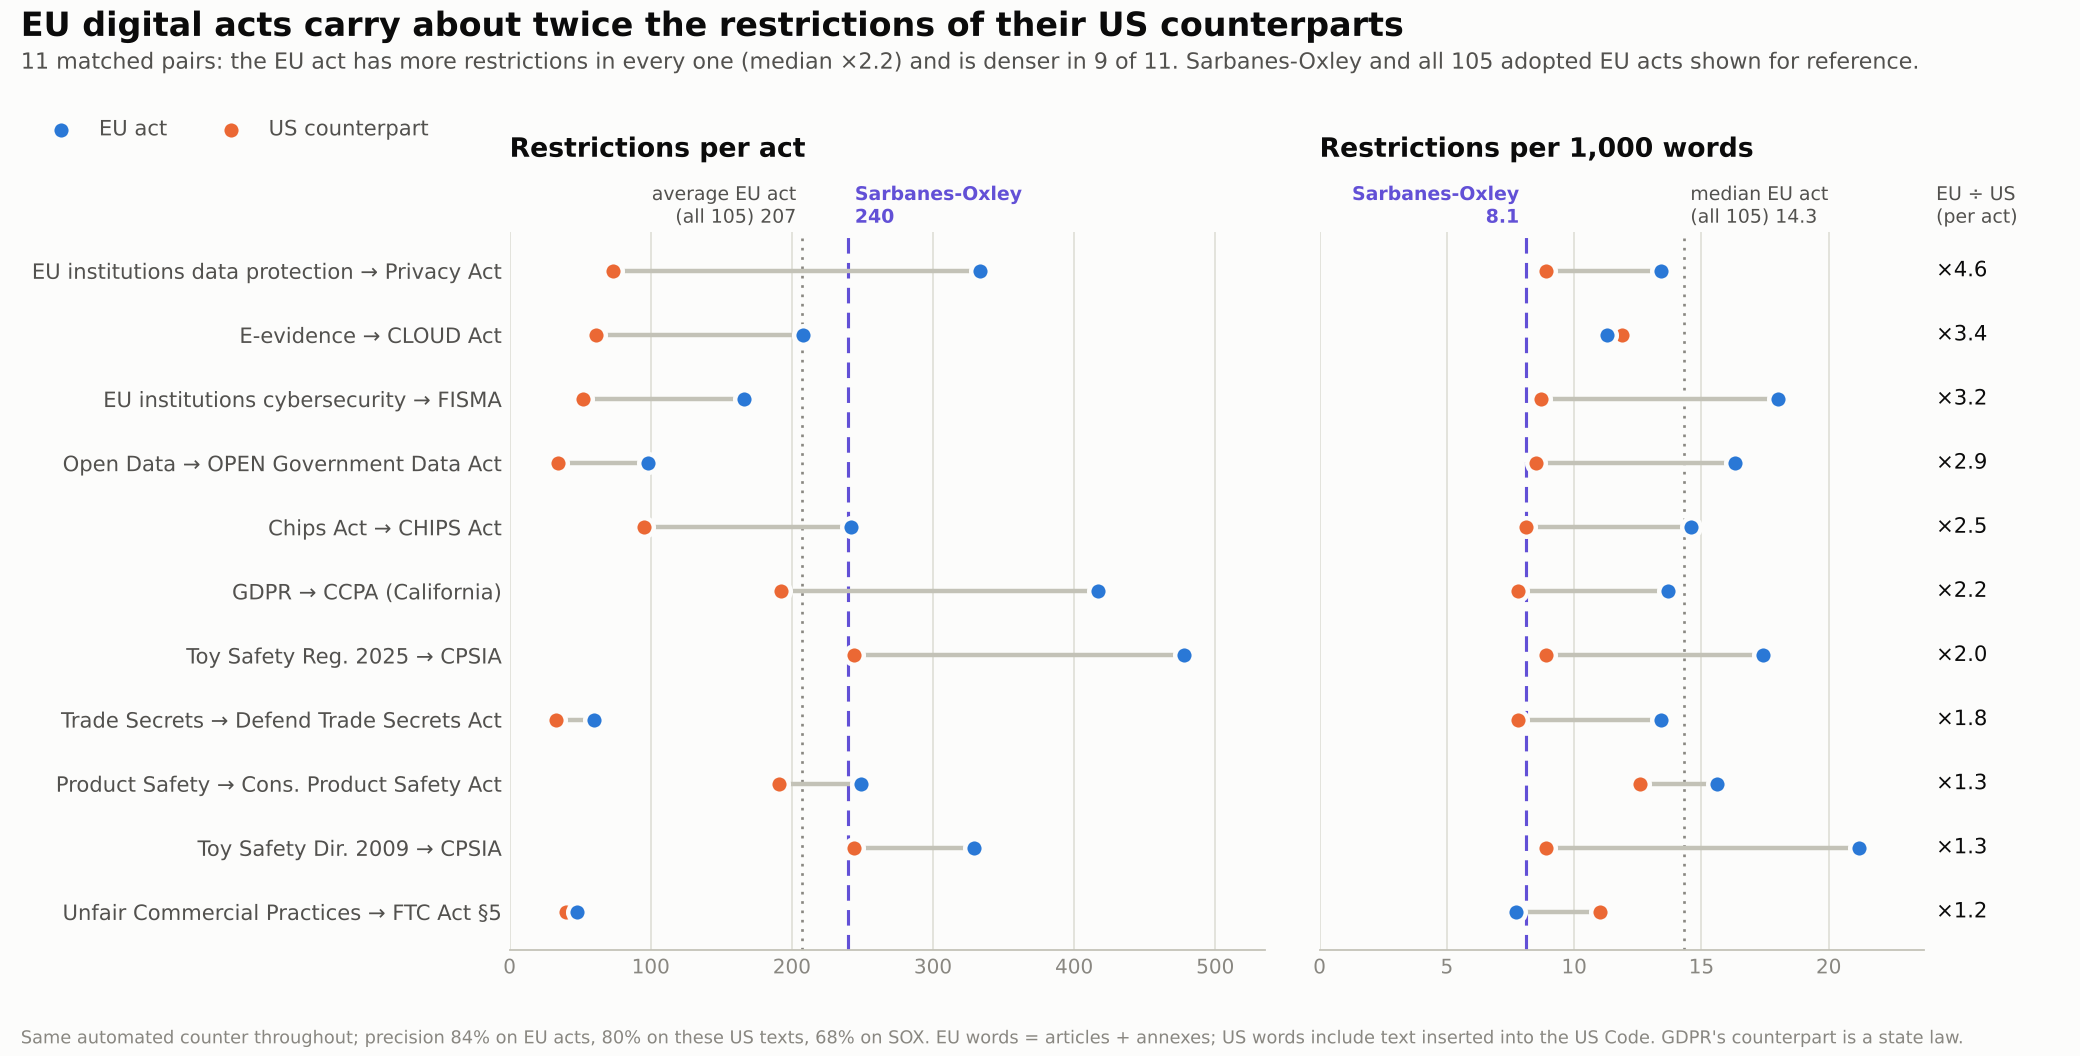
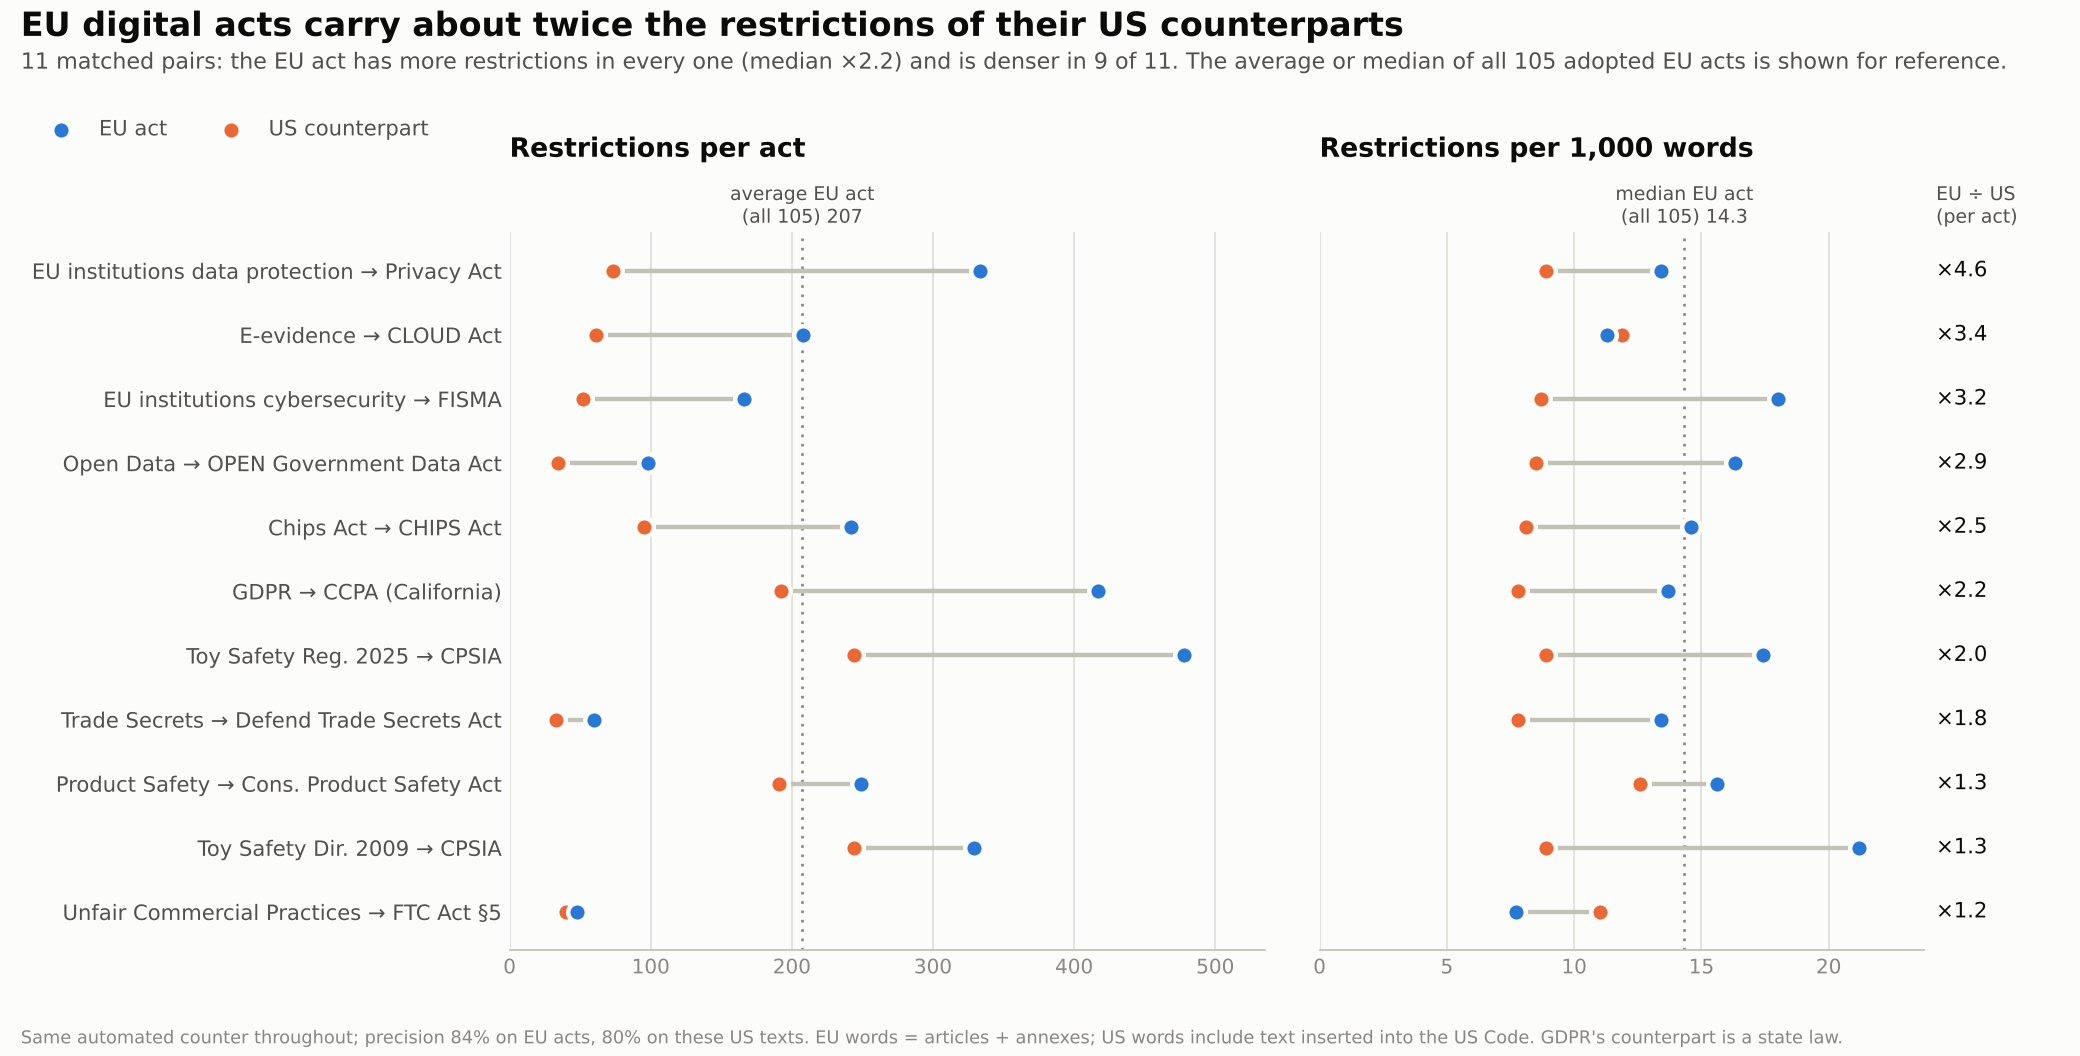
Chart 10: drop Sarbanes-Oxley reference lines
Claude-Session: https://claude.ai/code/session_015jJNgYEity1n7oPe2my2VN

diff --git a/research/ceps_metrics/scripts/charts.py b/research/ceps_metrics/scripts/charts.py
@@ -331,20 +331,15 @@ if _pairs:
             ax.plot([p[uk], p[ek]], [yi, yi], color=BASE, lw=2, solid_capstyle="round", zorder=2)
         ax.scatter([p[uk] for p in _pairs], y, s=70, color=USC, edgecolor=SURF, linewidth=2, zorder=3, label="US counterpart")
         ax.scatter([p[ek] for p in _pairs], y, s=70, color=EUC, edgecolor=SURF, linewidth=2, zorder=4, label="EU act")
-        ax.axvline(ref, color=SOXC, lw=1.4, ls=(0, (5, 3)), zorder=1)
-        _sox_right = ref >= allv            # put the two reference labels on opposite sides so they never collide
-        ax.text(ref + (1 if _sox_right else -1) * ax.get_xlim()[1] * 0, len(y) - 0.35, f" {reflab}\n {ref:g}" if _sox_right else f"{reflab} \n{ref:g} ",
-                color=SOXC, fontsize=8.5, ha="left" if _sox_right else "right", va="bottom", weight="bold")
         ax.axvline(allv, color=MUTED, lw=1.2, ls=(0, (1, 2.5)), zorder=1)
         _v = f"{allv:.0f}" if ek == "eu_restrictions" else f"{allv:.1f}"
-        ax.text(allv, len(y) - 0.35, f"{alllab} \n(all 105) {_v} " if _sox_right else f" {alllab}\n (all 105) {_v}",
-                color=INK2, fontsize=8.5, ha="right" if _sox_right else "left", va="bottom")
+        ax.text(allv, len(y) - 0.35, f"{alllab}\n(all 105) {_v}", color=INK2, fontsize=8.5, ha="center", va="bottom")
         ax.set_title(title, loc="left", fontsize=12, color=INK, weight="bold", pad=34)
         ax.xaxis.grid(True, color=GRID, lw=0.8); ax.set_axisbelow(True)
         for s in ("top", "right", "left"):
             ax.spines[s].set_visible(False)
         ax.spines["bottom"].set_color(BASE); ax.tick_params(colors=MUTED, length=0, labelsize=9)
-        ax.set_xlim(0, max(max(p[ek] for p in _pairs), ref) * 1.12)
+        ax.set_xlim(0, max(max(p[ek] for p in _pairs), allv) * 1.12)
         ax.set_ylim(-0.6, len(y) - 0.4)
     ax1.set_yticks(y); ax1.set_yticklabels([SHORT.get(p["eu_instrument"], p["eu_instrument"]) for p in _pairs], color=INK2, fontsize=9.5)
     # ratio column
@@ -358,8 +353,8 @@ if _pairs:
     fig.suptitle("EU digital acts carry about twice the restrictions of their US counterparts", x=0.01, ha="left",
                  fontsize=15, color=INK, weight="bold", y=0.99)
     fig.text(0.01, 0.935, f"{len(_pairs)} matched pairs: the EU act has more restrictions in every one (median ×{med:.1f}) and is denser in {_denser} of {len(_pairs)}. "
-             "Sarbanes-Oxley and all 105 adopted EU acts shown for reference.", fontsize=10, color=INK2)
-    fig.text(0.01, 0.012, "Same automated counter throughout; precision 84% on EU acts, 80% on these US texts, 68% on SOX. EU words = articles + annexes; "
+             "The average or median of all 105 adopted EU acts is shown for reference.", fontsize=10, color=INK2)
+    fig.text(0.01, 0.012, "Same automated counter throughout; precision 84% on EU acts, 80% on these US texts. EU words = articles + annexes; "
              "US words include text inserted into the US Code. GDPR's counterpart is a state law.", fontsize=8, color=MUTED)
     fig.subplots_adjust(left=0.245, right=0.925, top=0.78, bottom=0.1, wspace=0.08)
     fig.savefig(OUT + "10_eu_vs_us_counterparts.png", facecolor=SURF); plt.close(fig); print("wrote 10_eu_vs_us_counterparts.png")
